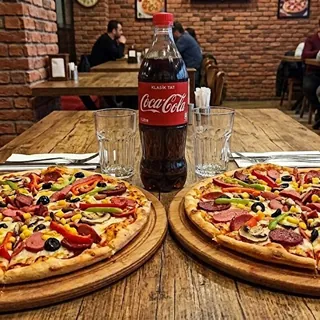
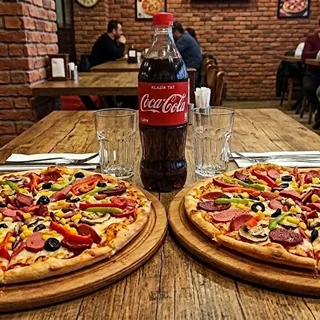
New menu photos for Mini, Fırsat Üçlüsü, Aile, Kanka, Büyük Keyif, Parti
The owner's Gemini re-renders: wider framing, Coca-Cola drinks, and
Fırsat Üçlüsü no longer shares Aile Menü's photo.

Changed region(s): [[0.9062, 0.7188, 0.9375, 0.75], [0.75, 0.5312, 0.7812, 0.5625], [0.625, 0.5625, 0.6562, 0.5938]]

diff --git a/app/site-data.ts b/app/site-data.ts
@@ -86,8 +86,8 @@ export const googleReviews = {
   ],
 };
 
-// Set menus. Prices: printed menu, or the owner's list for the newest ones; Favori Menü, Fırsat Üçlüsü and
-// Mini Menü (and every image) come from the restaurant's Trendyol Yemek listing.
+// Set menus. Prices: printed menu, or the owner's list for the newest ones. Images: the restaurant's Trendyol Yemek
+// photos, Gemini re-renders of them (whole table in frame, Coca-Cola drinks), or composites of our product shots.
 export type Campaign = { id: string; name: string; contents: string; price: number; image: string };
 const menuImg = (f: string) => `/assets/menus/${f}.webp`;
 export const campaigns: Campaign[] = [
